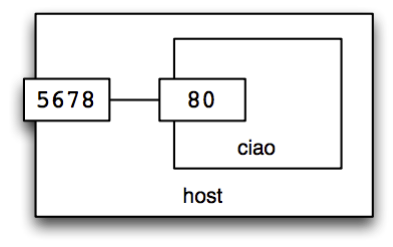
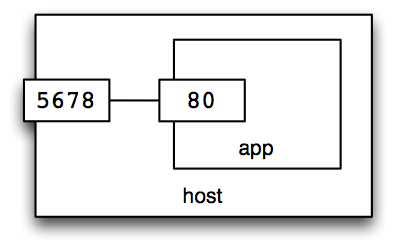
Revise the composition examples and diagrams.

diff --git a/index.html b/index.html
@@ -801,6 +801,31 @@ $ `docker rm -f app`
 ```
 
 ---
+# Consider: a reverse-proxy image
+
+```
+# /nginx/proxy.conf.sh
+
+upstream backend {
+  server ${BACKEND:-app:80};
+}
+
+server {
+  listen ${PORT:-80};
+  location / {
+    proxy_pass http://backend;
+  }
+}
+```
+
+```
+# /nginx/run (default command)
+
+/nginx/proxy.conf.sh > /etc/nginx/sites-enabled/proxy.conf
+exec nginx
+```
+
+---
 name: links
 # Try it: link two containers
 
@@ -808,8 +833,9 @@ You can link containers together, without exposing ports to the host:
 
 ```
 $ `docker run -d --name app ciao`
-$ `docker run -d --name proxy -p 5678:80 --link app \`
-  `-e NGINX_APP_PORT=80 woollyams/nginx-reverse-proxy`
+$ `docker run -d --name proxy --link app \`
+  `-p 5678:1234 -e PORT=1234 -e BACKEND=app:80 \`
+  `woollyams/nginx-reverse-proxy`
 ```
 
 .center[
@@ -820,14 +846,12 @@ $ `docker run -d --name proxy -p 5678:80 --link app \`
 $ `curl -si $(docker-machine ip):5678`
 ```
 
-Cleanup:
-
-```
-$ `docker rm -f app proxy`
-```
-
 ---
 name: volumes
+class: middle, center
+# Volumes
+
+---
 # Try it: volume from host
 
 Mount your home directory from the "host":
@@ -932,8 +956,6 @@ class: middle, center
 ---
 # Try it: link containers using docker-compose
 
-- Lifecycle management for _groups_ of containers.
-
 Given YAML config file:
 
 ```
@@ -941,11 +963,13 @@ app:
   image: ciao
 
 proxy:
-  image: woollyams/nginx-reverse-proxy
+  image: woollyams/nginx-reverse-proxy:201603101638
   links:
-  - app
+    - app
   ports:
-  - 5678:80
+    - 5678:8080
+  environment:
+    PORT: 8080
 ```
 
 You can start all the containers with:
@@ -978,19 +1002,39 @@ $ `docker-compose down`
 ```
 
 ---
-# Try it: get compose to build your image
+# Try it: get compose to build your images
+
+```
+app:
+  image: ciao
+
+proxy:
+  image: woollyams/nginx-reverse-proxy:201603101638
+  ports:
+    - 5678:8080
+  links:
+    - app
+  environment:
+    PORT: 8080
+```
+
+---
+# Try it: get compose to build your images
 
 ```
 app:
   build: ../../ciao
 
 proxy:
-  image: woollyams/nginx-reverse-proxy
-  links:
-  - app
+  build: ../../nginx-reverse-proxy
   ports:
-  - 5678:80
+    - 5678:8080
+  links:
+    - app
+  environment:
+    PORT: 8080
 ```
+--
 
 ```
 $ `cd exercises/composed/autobuilt`
@@ -1009,7 +1053,7 @@ services:
     image: ciao
 
   proxy:
-    image: woollyams/nginx-reverse-proxy
+    image: woollyams/nginx-reverse-proxy:201603101638
     ports:
     - 5678:80
 ```
